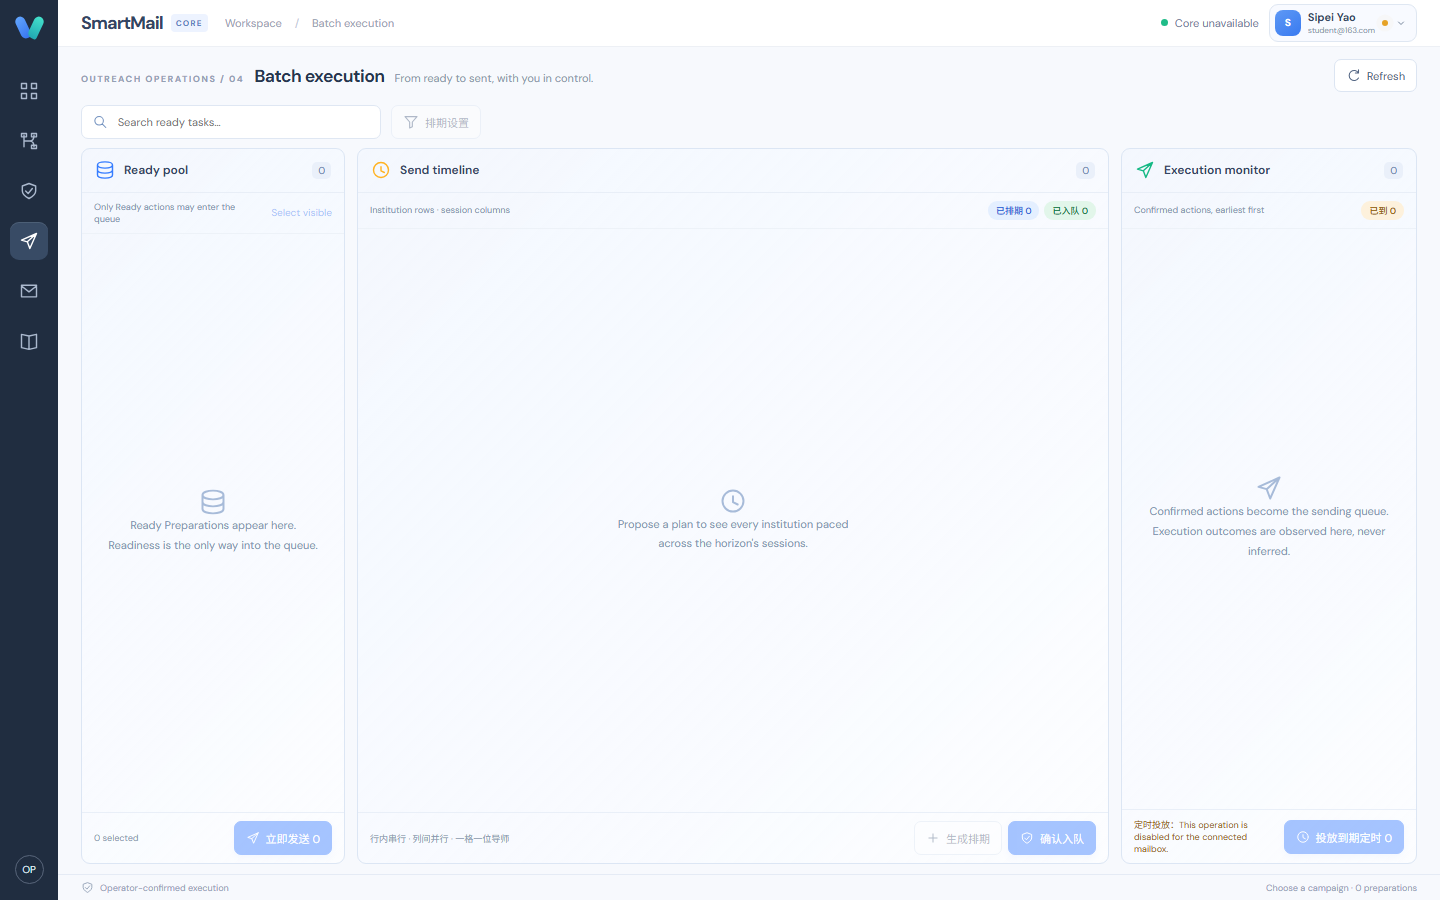
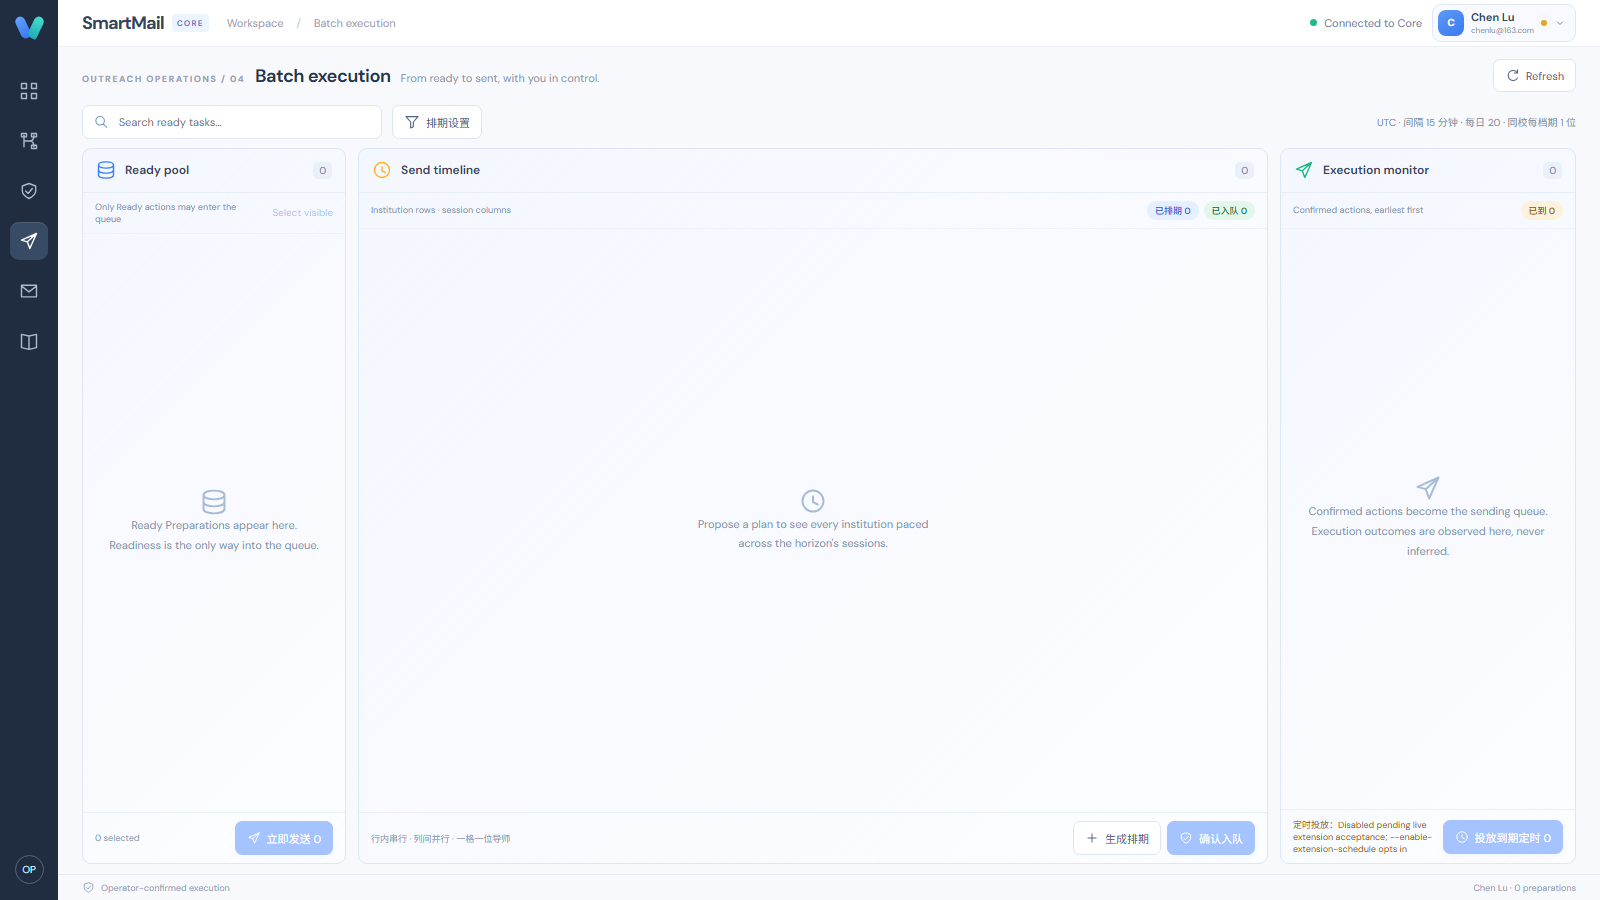
chore: 添加种子演示脚本与测试资源文件
新增批量生成招生邮件模板的Python脚本，添加批量的草稿邮件、简历、Excel清单、压缩包等输出文件，更新冒烟测试脚本适配新的测试数据与页面交互逻辑，调整视图尺寸并新增页面截图捕获。

diff --git a/.scratch/seed-execution-demo.py b/.scratch/seed-execution-demo.py
@@ -1,0 +1,101 @@
+"""Seed the dev store with a two-institution campaign so the timeline grid has shape."""
+import sys
+import zipfile
+from pathlib import Path
+from xml.sax.saxutils import escape
+
+from openpyxl import Workbook
+
+ROOT = Path(__file__).resolve().parent.parent
+sys.path.insert(0, str(ROOT))
+
+from smartmail import SmartMail  # noqa: E402
+
+HOME = Path(sys.argv[1]).resolve() if len(sys.argv) > 1 else ROOT / "frontend" / ".smartmail"
+TMP = ROOT / ".scratch" / "seed-out"
+TMP.mkdir(parents=True, exist_ok=True)
+
+HEADERS = ["大学", "导师", "邮箱📮", "URL"]
+DECLARATION = ("I have attached my CV and would welcome the opportunity to discuss "
+               "my background.")
+SUBJECT = "PhD supervision enquiry"
+ADVISORS = [
+    ("River University", "Dr Alex Green", "alex@river.edu"),
+    ("River University", "Dr Blair Blue", "blair@river.edu"),
+    ("River University", "Dr Casey Cyan", "casey@river.edu"),
+    ("Hill College", "Dr Dana Dove", "dana@hill.edu"),
+    ("Hill College", "Dr Ellis Elm", "ellis@hill.edu"),
+    ("Hill College", "Dr Fran Fern", "fran@hill.edu"),
+    ("Hill College", "Dr Gale Gray", "gale@hill.edu"),
+]
+
+
+def document(path, paragraphs):
+    namespace = "http://schemas.openxmlformats.org/wordprocessingml/2006/main"
+    body = "".join(
+        f'<w:p><w:r><w:t xml:space="preserve">{escape(text)}</w:t></w:r></w:p>'
+        for text in paragraphs)
+    xml = ('<?xml version="1.0" encoding="UTF-8"?>'
+           f'<w:document xmlns:w="{namespace}"><w:body>{body}</w:body></w:document>')
+    with zipfile.ZipFile(path, "w") as archive:
+        archive.writestr("word/document.xml", xml)
+    return path
+
+
+def draft_paragraphs(recipient):
+    lines = [f"Email: {recipient}", "", "", "", "Dear Dr,", "", DECLARATION,
+             "", "Yours sincerely,", "Sipei Yao"]
+    return lines
+
+
+def master(path):
+    workbook = Workbook()
+    sheet = workbook.active
+    sheet.append(HEADERS)
+    for school, name, address in ADVISORS:
+        sheet.append([school, name, address, ""])
+    workbook.save(path)
+    workbook.close()
+    return path
+
+
+def bundle(path, members):
+    with zipfile.ZipFile(path, "w") as archive:
+        for name, item in members:
+            archive.write(item, name)
+    return path
+
+
+with SmartMail(HOME) as core:
+    student = core.create_student("Pacing Demo", "demo@163.com")
+    campaign_id = student["campaign_id"]
+
+    master_path = master(TMP / "master.xlsx")
+    cv_path = document(TMP / "cv.docx", ["Pacing Demo", "E-mail: demo@163.com"])
+    members = [("master.xlsx", master_path), ("Pacing Demo - CV.docx", cv_path)]
+    for index, (school, name, address) in enumerate(ADVISORS):
+        members.append((f"{school}_{name}.docx",
+                        document(TMP / f"draft-{index}.docx", draft_paragraphs(address))))
+    source = bundle(TMP / "bundle.zip", members)
+
+    imported = core.import_master(campaign_id, student["id"], source)
+    preparation_ids = core.prepare_from_documents(imported["id"])["preparation_ids"]
+    for preparation_id in preparation_ids:
+        core.set_subject(preparation_id, SUBJECT)
+        slot = core.get_preparation(preparation_id)["attachment_slots"][0]
+        core.confirm_attachment(preparation_id, slot["id"])
+
+    configured = core.configure_plan(
+        campaign_id, timezone="Asia/Shanghai",
+        windows=["MON-FRI 09:00-10:00"], spacing_minutes=15,
+        daily_limit=9, horizon_days=6, institution_limit=1)
+    plan = core.propose_plan(campaign_id)
+
+    print("campaign", campaign_id)
+    print("student", student["id"])
+    print("config", configured)
+    print("preparations", len(preparation_ids))
+    for proposal in plan["proposals"]:
+        print(f"  {proposal['scheduled_at'][:16]}  {proposal['institution_name']:20s} "
+              f"{proposal['supervisor_name']}")
+    print("impossible", len(plan["impossible"]), "unavailable", len(plan["unavailable"]))
